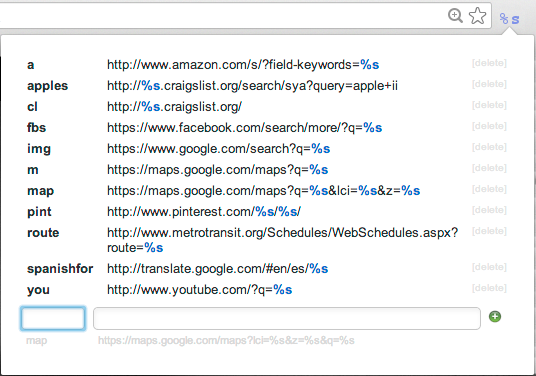
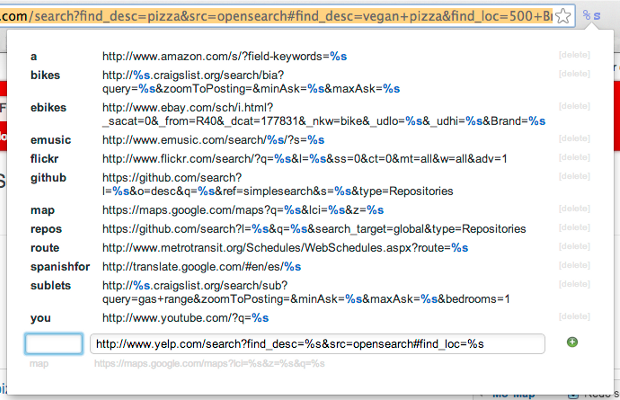
README update

diff --git a/README.md b/README.md
@@ -12,26 +12,28 @@ Enter new aliases into the Aliaser extension popup, using <b>%s</b> to denote pa
 
 Once you've entered an alias into the extension popup, you can invoke it by entering <b><i>a</i></b> followed by a space into the address bar to summon the extension omnibox, then type the alias followed by any parameter values it expects to see.
 
-For example, to invoke the 'cl' alias in the above screenshot, subbing <b>%s</b> with <b>seattle</b> (i.e. to go to http://seattle.craigslist.org), type this:
-
-`a cl seattle`
-
-Or to find out what the spanish translation of "good job, you!" is, just type
+For example, to invoke the <b>spanishfor</b> alias in the above screenshot to find out what the spanish translation of "good job, you!" is, just type
 
 `a spanishfor good job, you!`
 
-Neato!
+## Multiple parameters
 
-(Yes the additional two keystrokes required to invoke the omnibox are annoying, but as far as I know, there's no way around this, as this is how Chrome extensions work. If you know otherwise, please do let me know.)
+Of course, while this extension provides a handy toolbar popup reference for your aliases, if you define this as a custom search engine in Chrome instead, you can do away with the extra two keystrokes (<b>a</b> followed by <b>space</b>) at the beginning of this command.
+
+The service this extension really provides over Chrome's custom search engines is that it allows you to use multiple <b>%s</b> parameters in a URL.
+
+So for example, using the <b>bikes</b> alias in the above screenshot, the following command will take you to all Univega bikes posted for sale in Seattle's Craigslist for $200 to $600:
+
+`a bikes seattle univega 200 600`
 
 ## A few particulars
 
 <i>If more tokens are entered for an alias than it expects, all tokens will be lumped together and applied to the final parameter.</i>
 
-So for example, `a m 1443 Alabama St SF`<br>
-will take you to `https://maps.google.com/maps?q=1443%20Alabama%20St%20SF` without complaint
+So for example, `a a 3 wolves howling at the moon`<br>
+will take you to `http://www.amazon.com/s/?field-keywords=3%20wolves%20howling%20at%20the%20moon` without complaint
 
-<i>To send a be-spaced token to a middling parameter, use quotes.</i>
+<i>To send a spaced-out token to a middling parameter, use quotes.</i>
 
 So `a map "1443 Alabama St SF" bike 10`<br>
 will take you to `https://maps.google.com/maps?q=1443%20Alabama%20St%20SF&lci=bike&z=10`<br>
@@ -44,7 +46,4 @@ will take you to `https://maps.google.com/maps?q=1443%20Alabama%20St$20SF&lci=bi
 And `a you`<br>
 will take you to `http://www.youtube.com`<br>
 
-And `a pint kittens`<br>
-will take you to `http://www.pinterest.com/kittens/`<br>
-
-But if you enter `a cl`, there is nothing to be done, so nothing will be done.
+But if you enter `a bikes`, there is nothing to be done, so nothing will be done.
